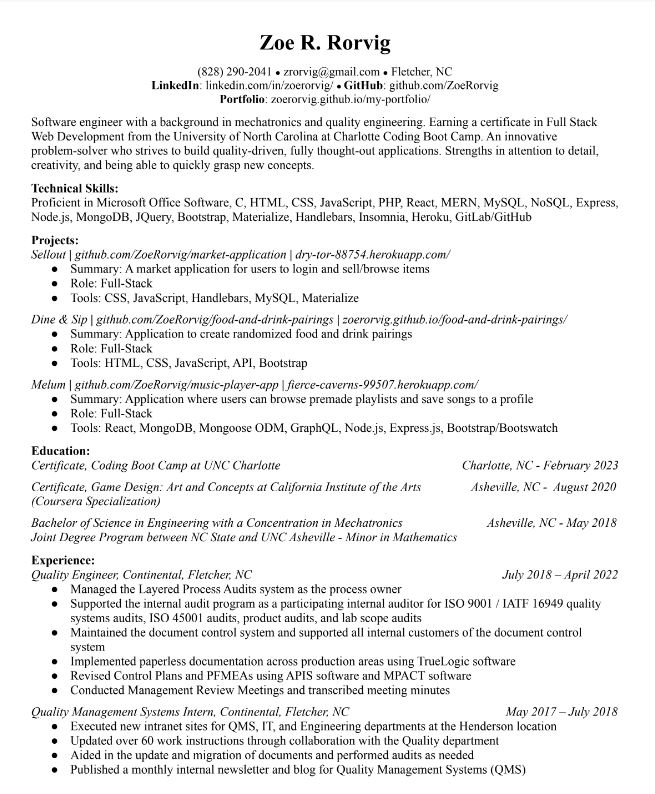
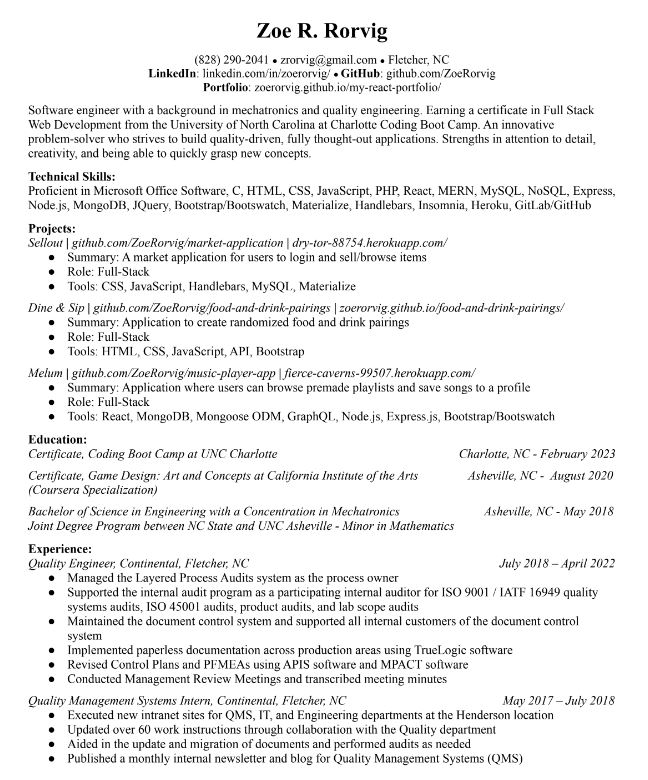
updated resume and projects

Changed region(s): [[0.0309, 0.0308, 0.9568, 0.9846]]

diff --git a/src/components/pages/Portfolio.js b/src/components/pages/Portfolio.js
@@ -1,11 +1,11 @@
 import React from 'react';
 import Project from './Project';
 import sellout from '../../images/sellout.png';
-import weatherDash from '../../images/weather-dash.png';
 import dineAndSip from '../../images/dine-and-sip.png';
 import noteTaker from '../../images/note-taker.png';
-import passwordGen from '../../images/password-gen.png';
+import workdayScheduler from '../../images/workdayScheduler.png';
 import techBlog from '../../images/tech-blog.png';
+import melum from '../../images/melum.png';
 
 const projects = [
     {
@@ -14,8 +14,8 @@ const projects = [
         image: sellout,
         repo: 'https://github.com/ZoeRorvig/market-application',
         deployed: 'https://dry-tor-88754.herokuapp.com/',
-        summary: 'This is a summary',
-        tech: 'This is tech',
+        summary: 'Webpage to provide a place for users to be able to post unwanted items for others to purchase.',
+        tech: 'Handlebars, Materialize, MySQL, Sequelize, JavaScript, Bcrypt',
     },
     {
         id: 1,
@@ -23,17 +23,17 @@ const projects = [
         image: dineAndSip,
         repo: 'https://github.com/ZoeRorvig/food-and-drink-pairings',
         deployed: 'https://zoerorvig.github.io/food-and-drink-pairings/',
-        summary: 'This is a summary',
-        tech: 'This is tech',
+        summary: 'Website for discovering new food and drink pairings.',
+        tech: 'HTML, CSS/Bootstrap, JavaScript, Drink/Meals API',
     },
     {
         id: 2,
-        title: 'Weather Dashboard',
-        image: weatherDash,
-        repo: 'https://github.com/ZoeRorvig/weather-dashboard',
-        deployed: 'https://zoerorvig.github.io/weather-dashboard/',
-        summary: 'This is a summary',
-        tech: 'This is tech',
+        title: 'Melum',
+        image: melum,
+        repo: 'https://github.com/ZoeRorvig/music-player-app',
+        deployed: 'https://fierce-caverns-99507.herokuapp.com/',
+        summary: 'Webpage where users can browse premade playlists and save favorites to their profile.',
+        tech: 'React, MongoDB, Mongoose ODM, GraphQL, Node.js, Express.js, Bootstrap/Bootswatch',
     },
     {
         id: 3,
@@ -41,8 +41,8 @@ const projects = [
         image: noteTaker,
         repo: 'https://github.com/ZoeRorvig/note-taker',
         deployed: 'https://rocky-oasis-67925.herokuapp.com/notes',
-        summary: 'This is a summary',
-        tech: 'This is tech',
+        summary: 'Application where users can create, store, and delete notes.',
+        tech: 'Express.js, JavaScript, HTML, CSS',
     },
     {
         id: 4,
@@ -50,17 +50,17 @@ const projects = [
         image: techBlog,
         repo: 'https://github.com/ZoeRorvig/tech-blog',
         deployed: 'https://mysterious-badlands-96027.herokuapp.com/',
-        summary: 'This is a summary',
-        tech: 'This is tech',
+        summary: 'Blog for users to create, post, and comment on each others ideas.',
+        tech: 'JavaScript, Handlebars, Sequelize, MySQL2, Express.js',
     },
     {
         id: 5,
-        title: 'Password Generator',
-        image: passwordGen,
-        repo: 'https://github.com/ZoeRorvig/password-generator',
-        deployed: 'https://zoerorvig.github.io/password-generator/',
-        summary: 'This is a summary',
-        tech: 'This is tech',
+        title: 'Work Day Scheduler',
+        image: workdayScheduler,
+        repo: 'https://github.com/ZoeRorvig/work-day-scheduler',
+        deployed: 'https://zoerorvig.github.io/work-day-scheduler/',
+        summary: 'Application for users to plan out their day that highlights the current time.',
+        tech: 'Day.js, JQuery, HTML, CSS',
     },
 ];
 

diff --git a/src/components/pages/Resume.js b/src/components/pages/Resume.js
@@ -12,7 +12,7 @@ export default function Resume() {
       <h2>Resume</h2>
 
       <p>Click On the Image Below to Download</p>
-      <a href='https://drive.google.com/file/d/1FnYTlR6--wjE2xxN6Sg5vsr0zpUvewsL/view?usp=sharing' target='_blank' rel='noreferrer'>
+      <a href='https://drive.google.com/file/d/1-IMW28WdrYb09HXuMg1i3tgTvzDrJSSU/view?usp=sharing' target='_blank' rel='noreferrer'>
         <img className='resume' src={resume} alt='resume' />
       </a>
         <h3>Proficiencies</h3>
